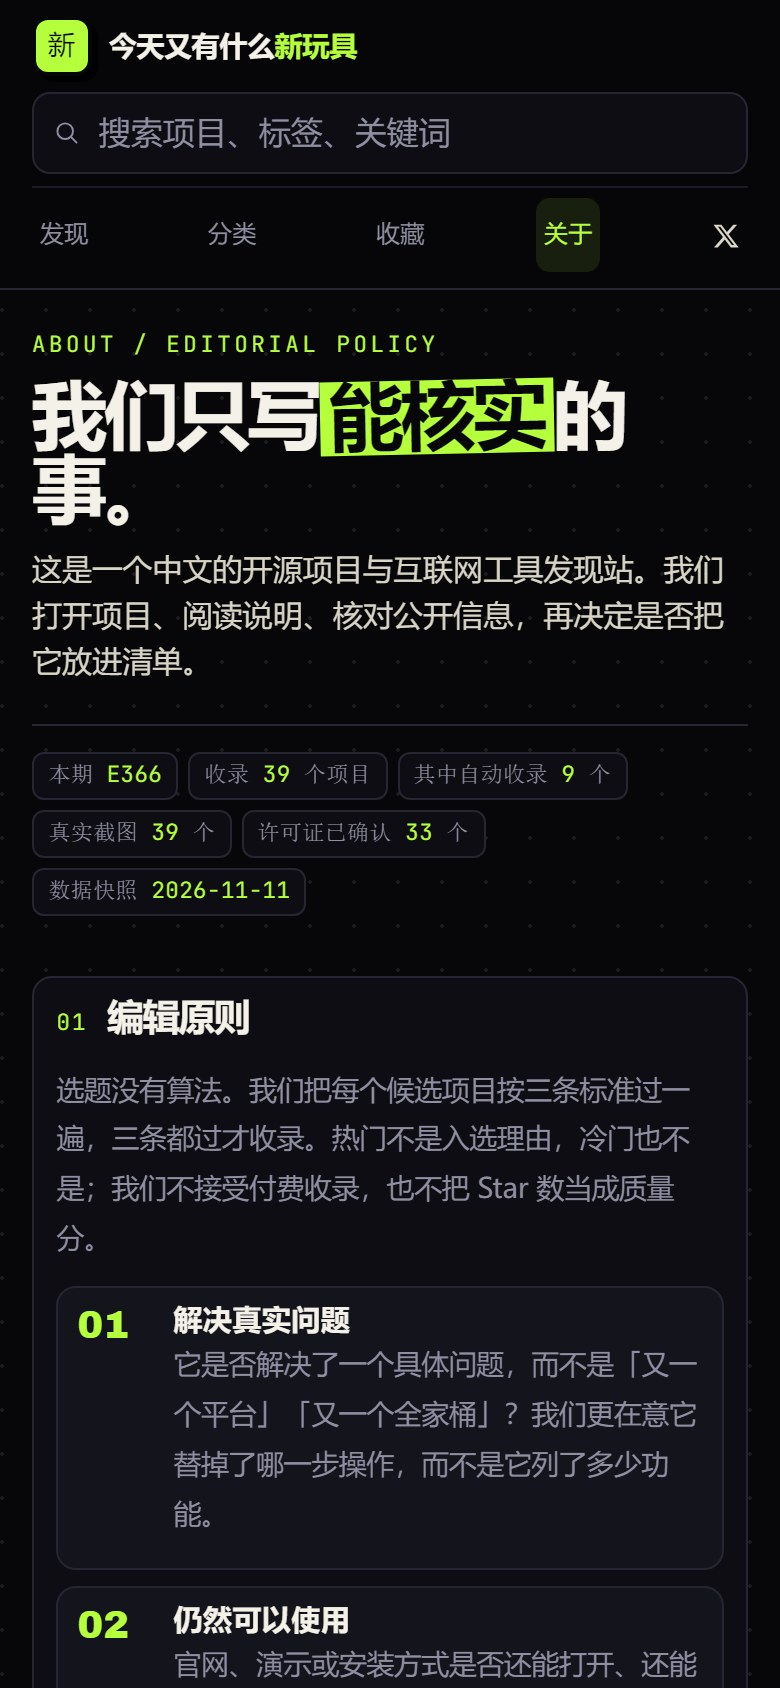
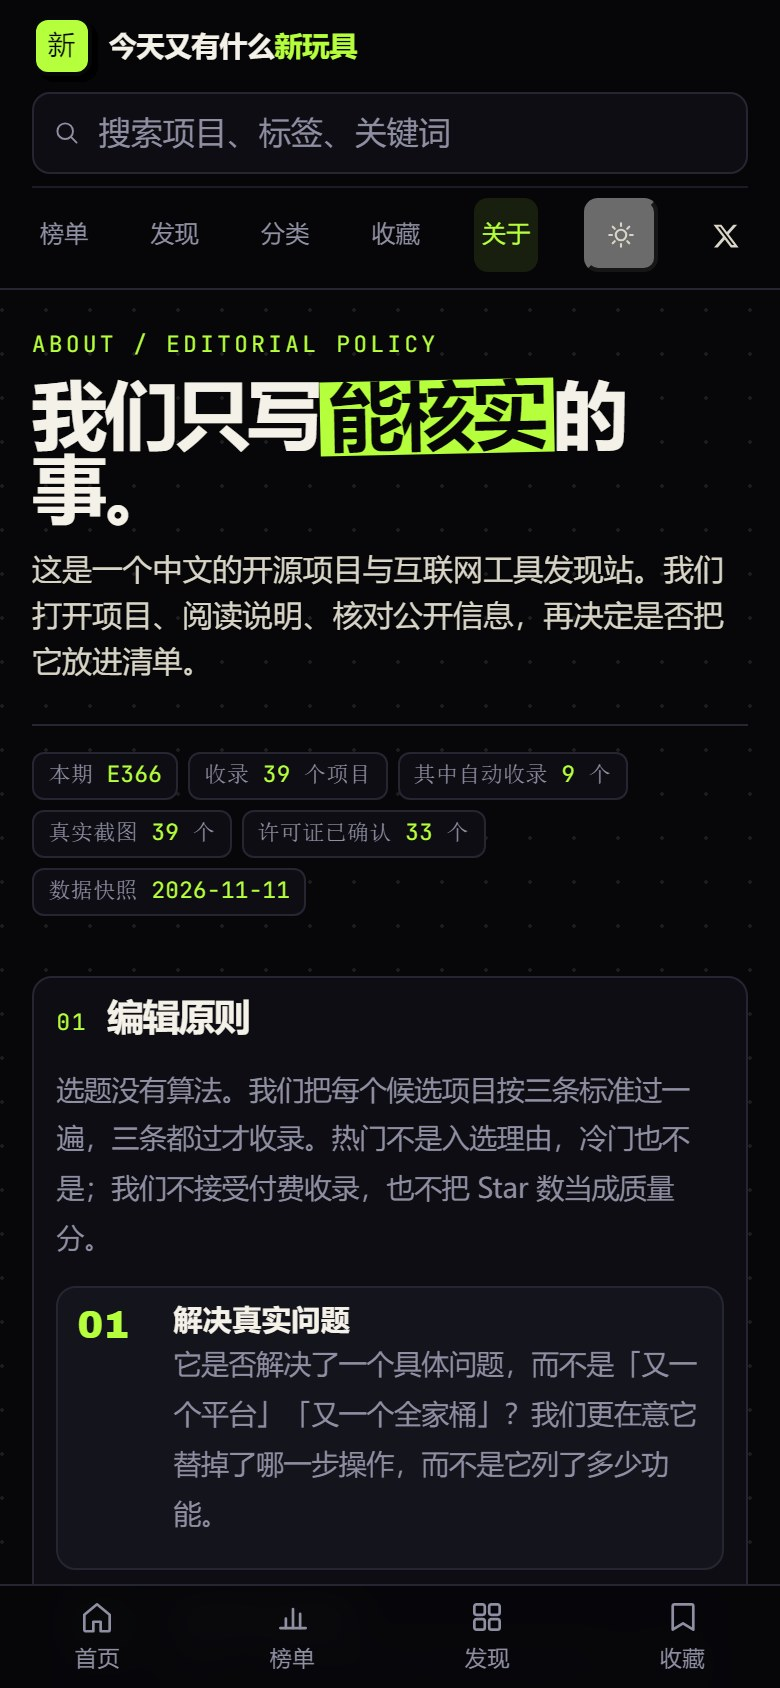
docs: 截图加入榜单页与浅色主题

diff --git a/README.md b/README.md
@@ -34,6 +34,17 @@
 
 <table>
 <tr>
+<td width="50%"><img src="docs/screenshots/rankings-desktop.jpg" alt="榜单页：今日活跃 / 本周 / 本月 / 星标涨幅 / Star 总量 / 最新收录"></td>
+<td width="50%"><img src="docs/screenshots/home-light.jpg" alt="浅色主题首页"></td>
+</tr>
+<tr>
+<td align="center"><sub>榜单页 · 六个榜，每个都写明算法</sub></td>
+<td align="center"><sub>浅色主题 · 同一套 token，不是反色</sub></td>
+</tr>
+</table>
+
+<table>
+<tr>
 <td width="50%"><img src="docs/screenshots/discover-desktop.jpg" alt="发现页：搜索、多标签筛选、排序与分页"></td>
 <td width="50%"><img src="docs/screenshots/detail-desktop.jpg" alt="项目详情页：概览、功能、门槛、许可证与截图"></td>
 </tr>
@@ -44,9 +55,10 @@
 </table>
 
 <div align="center">
-<img src="docs/screenshots/home-mobile.jpg" width="300" alt="iPhone 上的首页">
-<img src="docs/screenshots/about-mobile.jpg" width="300" alt="iPhone 上的关于页面">
-<br><sub>iPhone 390pt：首页（左）与编辑原则（右），实际渲染截图 · 手机端为纯文字版</sub>
+<img src="docs/screenshots/home-mobile.jpg" width="230" alt="iPhone 上的首页">
+<img src="docs/screenshots/rankings-mobile.jpg" width="230" alt="iPhone 上的榜单页">
+<img src="docs/screenshots/about-mobile.jpg" width="230" alt="iPhone 上的关于页面">
+<br><sub>iPhone 390pt：首页 / 榜单 / 编辑原则，实际渲染截图 · 底部是四项 tab bar</sub>
 </div>
 
 <table>
